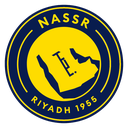
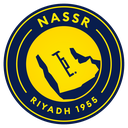
تبديل شعار الموقع بالشعار الجديد المرفق (webp) في كل المواضع

diff --git a/app/templates/base.html b/app/templates/base.html
@@ -4,20 +4,20 @@
   <meta charset="utf-8">
   <meta name="viewport" content="width=device-width, initial-scale=1">
   <title>{% block title %}منصة أخبار النصر{% endblock %}</title>
-  <link rel="icon" type="image/png" sizes="32x32" href="{{ url_for('static', filename='img/favicon.png') }}?v=2">
-  <link rel="icon" type="image/png" sizes="16x16" href="{{ url_for('static', filename='img/favicon.png') }}?v=2">
-  <link rel="apple-touch-icon" sizes="180x180" href="{{ url_for('static', filename='img/favicon.png') }}?v=2">
+  <link rel="icon" type="image/png" sizes="32x32" href="{{ url_for('static', filename='img/favicon.png') }}?v=3">
+  <link rel="icon" type="image/png" sizes="16x16" href="{{ url_for('static', filename='img/favicon.png') }}?v=3">
+  <link rel="apple-touch-icon" sizes="180x180" href="{{ url_for('static', filename='img/favicon.png') }}?v=3">
   <link rel="preconnect" href="https://fonts.googleapis.com">
   <link rel="preconnect" href="https://fonts.gstatic.com" crossorigin>
   <link href="https://fonts.googleapis.com/css2?family=Lemonada:wght@700;800&family=Cairo:wght@600;700&display=swap" rel="stylesheet">
-  <link rel="stylesheet" href="{{ url_for('static', filename='css/app.css') }}?v=31">
+  <link rel="stylesheet" href="{{ url_for('static', filename='css/app.css') }}?v=32">
   <script src="https://unpkg.com/htmx.org@2.0.4" defer></script>
 </head>
 <body>
   <header class="topbar">
     <div class="wrap topbar-inner">
       <a class="brand" href="{{ url_for('news.home') }}">
-        <img class="brand-mark" src="{{ url_for('static', filename='img/nassr-logo.png') }}?v=2" alt="النصر السعودي" width="640" height="640">
+        <img class="brand-mark" src="{{ url_for('static', filename='img/nassr-logo.png') }}?v=3" alt="النصر السعودي" width="640" height="640">
         <span class="brand-text">
           <span class="brand-lead">منصة</span>
           <span class="brand-sub">أخبار النصر</span>

diff --git a/app/templates/partials/league.html b/app/templates/partials/league.html
@@ -4,7 +4,7 @@
    محلية، توقيت الرياض، تاريخ ميلادي وهجري، ملعب ومدينة بالعربية. #}
 {% macro crest(t) %}
   {% if t.crest %}
-    <img class="crest" src="{{ url_for('static', filename='img/teams/' ~ t.crest) }}?v=2"
+    <img class="crest" src="{{ url_for('static', filename='img/teams/' ~ t.crest) }}?v=3"
          alt="{{ t.name }}" width="36" height="36" loading="lazy">
   {% else %}
     <span class="crest crest-fallback" aria-hidden="true">{{ t.name[:1] }}</span>

diff --git a/app/templates/news/home.html b/app/templates/news/home.html
@@ -142,7 +142,7 @@
     <div class="section-divider" role="separator" aria-hidden="true">
       <span class="divider-rule"></span>
       <span class="divider-emblem">
-        <img src="{{ url_for('static', filename='img/nassr-logo.png') }}?v=2" alt="" width="640" height="640" loading="lazy">
+        <img src="{{ url_for('static', filename='img/nassr-logo.png') }}?v=3" alt="" width="640" height="640" loading="lazy">
       </span>
       <span class="divider-rule"></span>
     </div>

diff --git a/app/static/css/app.css b/app/static/css/app.css
@@ -354,7 +354,7 @@ a:hover { color: var(--gold-500); }
   display: inline-block; vertical-align: middle;
   width: 18px; height: 18px;
   margin-inline-start: 30px;
-  background: url('/static/img/nassr-logo.png?v=2') no-repeat center / contain;
+  background: url('/static/img/nassr-logo.png?v=3') no-repeat center / contain;
   filter: drop-shadow(0 1px 1px rgba(215, 155, 24, .4));
 }
 .ticker-item:hover { color: var(--gold-600); }

diff --git a/tests/test_news.py b/tests/test_news.py
@@ -411,7 +411,7 @@ def test_crest_image_is_served_at_full_colour_depth_and_its_own_hash(client):
 
 LEAD = "منصة"  # منصة
 ALT = "النصر السعودي"  # النصر السعودي
[2 lines of base64/hex data omitted]
 HOME = "الرئيسية"  # الرئيسية
 
 
